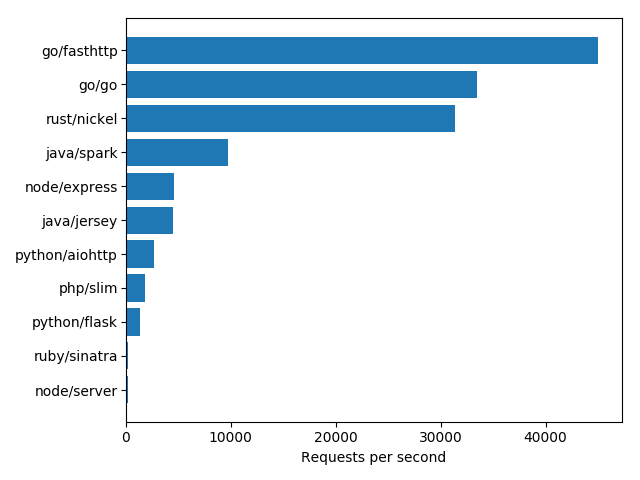
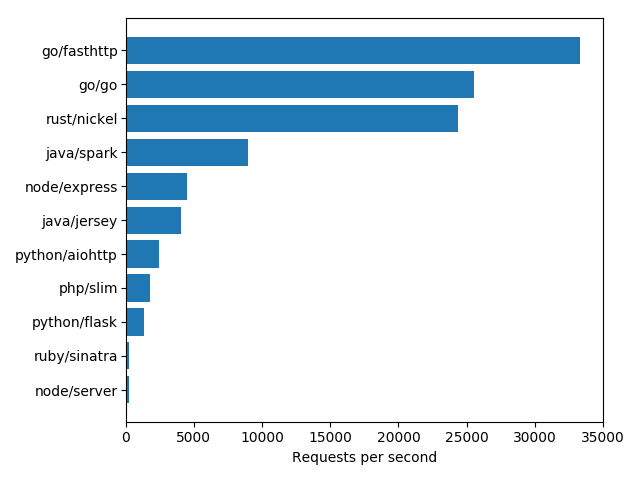
New results

diff --git a/RESULTS.md b/RESULTS.md
@@ -1,25 +1,28 @@
 # Host Info
 ```
-17 Nov 2017
+07 Apr 2018
 
-Linux 4.13.0-16-generic
+Linux 4.9.0-6-amd64
 
 Client:
- Version:      17.09.0-ce
- API version:  1.32
- Go version:   go1.8.3
- Git commit:   afdb6d4
- Built:        Tue Sep 26 22:42:45 2017
- OS/Arch:      linux/amd64
+ Version:	18.03.0-ce
+ API version:	1.37
+ Go version:	go1.9.4
+ Git commit:	0520e24
+ Built:	Wed Mar 21 23:10:06 2018
+ OS/Arch:	linux/amd64
+ Experimental:	false
+ Orchestrator:	swarm
 
 Server:
- Version:      17.09.0-ce
- API version:  1.32 (minimum version 1.12)
- Go version:   go1.8.3
- Git commit:   afdb6d4
- Built:        Tue Sep 26 22:41:24 2017
- OS/Arch:      linux/amd64
- Experimental: false
+ Engine:
+  Version:	18.03.0-ce
+  API version:	1.37 (minimum version 1.12)
+  Go version:	go1.9.4
+  Git commit:	0520e24
+  Built:	Wed Mar 21 23:08:35 2018
+  OS/Arch:	linux/amd64
+  Experimental:	false
 ```
 
 ---
@@ -29,7 +32,7 @@ Server:
 ## go/fasthttp
 
 ```
-go version go1.9.2 linux/amd64
+go version go1.10.1 linux/amd64
 ```
 
 ```
@@ -37,17 +40,17 @@ HappyTest-PASS, ErrorTest-PASS
 Running 11s test @ http://127.0.0.1:8888/api/echo/HelloWorld?num=1234567890
   1 threads and 11 connections
   Thread Stats   Avg      Stdev     Max   +/- Stdev
-    Latency   386.44us    1.00ms  26.40ms   96.49%
-    Req/Sec    45.22k     1.51k   49.37k    77.27%
-  494743 requests in 11.00s, 83.04MB read
-Requests/sec:  44975.43
-Transfer/sec:      7.55MB
+    Latency   401.90us  785.40us  21.98ms   96.88%
+    Req/Sec    33.49k     1.61k   37.08k    77.48%
+  369718 requests in 11.10s, 62.06MB read
+Requests/sec:  33308.67
+Transfer/sec:      5.59MB
 ```
 
 ## go/go
 
 ```
-go version go1.9.2 linux/amd64
+go version go1.10.1 linux/amd64
 ```
 
 ```
@@ -55,19 +58,19 @@ HappyTest-PASS, ErrorTest-PASS
 Running 11s test @ http://127.0.0.1:8888/api/echo/HelloWorld?num=1234567890
   1 threads and 11 connections
   Thread Stats   Avg      Stdev     Max   +/- Stdev
-    Latency   451.87us  816.39us  22.36ms   95.17%
-    Req/Sec    33.64k     1.52k   36.10k    72.73%
-  368154 requests in 11.00s, 55.47MB read
-Requests/sec:  33466.66
-Transfer/sec:      5.04MB
+    Latency   535.40us    0.89ms  22.50ms   95.63%
+    Req/Sec    25.65k     1.37k   28.05k    93.64%
+  280673 requests in 11.00s, 42.29MB read
+Requests/sec:  25513.16
+Transfer/sec:      3.84MB
 ```
 
 ## java/jersey
 
 ```
-openjdk version "1.8.0_151"
-OpenJDK Runtime Environment (build 1.8.0_151-8u151-b12-1~deb9u1-b12)
-OpenJDK 64-Bit Server VM (build 25.151-b12, mixed mode)
+openjdk version "1.8.0_162"
+OpenJDK Runtime Environment (build 1.8.0_162-8u162-b12-1~deb9u1-b12)
+OpenJDK 64-Bit Server VM (build 25.162-b12, mixed mode)
 ```
 
 ```
@@ -75,19 +78,19 @@ HappyTest-PASS, ErrorTest-PASS
 Running 11s test @ http://127.0.0.1:8888/api/echo/HelloWorld?num=1234567890
   1 threads and 11 connections
   Thread Stats   Avg      Stdev     Max   +/- Stdev
-    Latency     5.18ms    7.59ms  78.44ms   87.14%
-    Req/Sec     4.59k     3.00k   11.67k    64.55%
-  50217 requests in 11.00s, 5.85MB read
-Requests/sec:   4564.93
-Transfer/sec:    544.19KB
+    Latency     4.40ms    5.72ms  68.39ms   87.32%
+    Req/Sec     4.07k     2.53k   11.08k    70.91%
+  44588 requests in 11.00s, 5.19MB read
+Requests/sec:   4052.94
+Transfer/sec:    483.15KB
 ```
 
 ## java/spark
 
 ```
-openjdk version "1.8.0_151"
-OpenJDK Runtime Environment (build 1.8.0_151-8u151-b12-1~deb9u1-b12)
-OpenJDK 64-Bit Server VM (build 25.151-b12, mixed mode)
+openjdk version "1.8.0_162"
+OpenJDK Runtime Environment (build 1.8.0_162-8u162-b12-1~deb9u1-b12)
+OpenJDK 64-Bit Server VM (build 25.162-b12, mixed mode)
 ```
 
 ```
@@ -95,20 +98,20 @@ HappyTest-PASS, ErrorTest-PASS
 Running 11s test @ http://127.0.0.1:8888/api/echo/HelloWorld?num=1234567890
   1 threads and 11 connections
   Thread Stats   Avg      Stdev     Max   +/- Stdev
-    Latency     1.88ms    3.13ms  44.27ms   92.15%
-    Req/Sec     9.80k     3.24k   13.38k    75.68%
-  108194 requests in 11.10s, 21.57MB read
-Requests/sec:   9747.05
-Transfer/sec:      1.94MB
+    Latency     1.73ms    2.51ms  49.56ms   92.06%
+    Req/Sec     9.02k     3.28k   12.05k    73.64%
+  98755 requests in 11.00s, 19.68MB read
+Requests/sec:   8977.15
+Transfer/sec:      1.79MB
 ```
 
 ## node/express
 
 ```
-v9.2.0
+v9.11.1
 express@ /app
-+-- [40m[33mexpress@4.16.2[39m[49m 
-`-- [40m[33muuid@3.1.0[39m[49m 
++-- [40m[33mexpress@4.16.3[39m[49m 
+`-- [40m[33muuid@3.2.1[39m[49m 
 
 ```
 
@@ -117,21 +120,21 @@ HappyTest-PASS, ErrorTest-PASS
 Running 11s test @ http://127.0.0.1:8888/api/echo/HelloWorld?num=1234567890
   1 threads and 11 connections
   Thread Stats   Avg      Stdev     Max   +/- Stdev
-    Latency     2.40ms  722.13us  12.59ms   92.54%
-    Req/Sec     4.67k   622.05     5.38k    84.55%
-  51102 requests in 11.00s, 12.77MB read
-Requests/sec:   4645.23
-Transfer/sec:      1.16MB
+    Latency     2.47ms  737.59us  12.78ms   92.94%
+    Req/Sec     4.51k   578.25     5.01k    89.09%
+  49362 requests in 11.00s, 12.33MB read
+Requests/sec:   4487.32
+Transfer/sec:      1.12MB
 ```
 
 ## node/server
 
 ```
-v9.2.0
+v9.11.1
 server@ /app
-+-- server@1.0.5
-| `-- [40m[33mexpress@4.16.2[39m[49m 
-`-- [40m[33muuid@3.1.0[39m[49m 
++-- server@1.0.18
+| `-- [40m[33mexpress@4.16.3[39m[49m 
+`-- [40m[33muuid@3.2.1[39m[49m 
 
 ```
 
@@ -140,20 +143,20 @@ HappyTest-PASS, ErrorTest-PASS
 Running 11s test @ http://127.0.0.1:8888/api/echo/HelloWorld?num=1234567890
   1 threads and 11 connections
   Thread Stats   Avg      Stdev     Max   +/- Stdev
-    Latency    45.58ms    3.40ms  68.08ms   91.39%
-    Req/Sec   241.49     14.94   272.00     68.18%
-  2647 requests in 11.01s, 1.53MB read
-Requests/sec:    240.50
-Transfer/sec:    142.59KB
+    Latency    44.57ms    2.77ms  68.16ms   86.94%
+    Req/Sec   247.24     17.30   300.00     77.27%
+  2710 requests in 11.01s, 1.57MB read
+Requests/sec:    246.23
+Transfer/sec:    146.01KB
 ```
 
 ## php/slim
 
 ```
-PHP 7.1.11 (cli) (built: Nov  4 2017 10:39:58) ( NTS )
+PHP 7.1.12 (cli) (built: Dec  1 2017 19:26:10) ( NTS )
 Copyright (c) 1997-2017 The PHP Group
 Zend Engine v3.1.0, Copyright (c) 1998-2017 Zend Technologies
-    with Zend OPcache v7.1.11, Copyright (c) 1999-2017, by Zend Technologies
+    with Zend OPcache v7.1.12, Copyright (c) 1999-2017, by Zend Technologies
 ```
 
 ```
@@ -161,28 +164,31 @@ HappyTest-PASS, ErrorTest-PASS
 Running 11s test @ http://127.0.0.1:8888/api/echo/HelloWorld?num=1234567890
   1 threads and 11 connections
   Thread Stats   Avg      Stdev     Max   +/- Stdev
-    Latency     5.80ms  796.61us  16.04ms   77.85%
-    Req/Sec     1.90k    55.18     1.98k    67.27%
-  20840 requests in 11.00s, 5.09MB read
-Requests/sec:   1894.46
-Transfer/sec:    473.53KB
+    Latency     6.00ms    0.87ms  16.41ms   77.65%
+    Req/Sec     1.84k    75.74     1.94k    83.64%
+  20124 requests in 11.00s, 4.91MB read
+Requests/sec:   1828.91
+Transfer/sec:    457.14KB
 ```
 
 ## python/aiohttp
 
 ```
-Python 3.6.3
+Python 3.6.5
 Package       Version
 ------------- -------
-aiohttp       2.3.3  
-async-timeout 2.0.0  
+aiohttp       3.1.2  
+async-timeout 2.0.1  
+attrs         17.4.0 
 cchardet      2.1.1  
 chardet       3.0.4  
-multidict     3.3.2  
-pip           9.0.1  
-setuptools    36.6.0 
+idna          2.6    
+idna-ssl      1.0.1  
+multidict     4.1.0  
+pip           9.0.3  
+setuptools    39.0.1 
 wheel         0.30.0 
-yarl          0.14.2 
+yarl          1.1.1  
 ```
 
 ```
@@ -190,17 +196,17 @@ HappyTest-PASS, ErrorTest-PASS
 Running 11s test @ http://127.0.0.1:8888/api/echo/HelloWorld?num=1234567890
   1 threads and 11 connections
   Thread Stats   Avg      Stdev     Max   +/- Stdev
-    Latency     4.10ms  184.57us   9.18ms   79.97%
-    Req/Sec     2.69k    87.06     2.84k    70.00%
-  29475 requests in 11.00s, 5.43MB read
-Requests/sec:   2679.22
-Transfer/sec:    504.97KB
+    Latency     4.49ms  255.34us  13.64ms   90.03%
+    Req/Sec     2.46k   106.20     2.63k    78.18%
+  26904 requests in 11.00s, 4.95MB read
+Requests/sec:   2445.74
+Transfer/sec:    460.98KB
 ```
 
 ## python/flask
 
 ```
-Python 3.6.3
+Python 3.6.5
 Package      Version
 ------------ -------
 click        6.7    
@@ -208,9 +214,9 @@ Flask        0.12.2
 itsdangerous 0.24   
 Jinja2       2.10   
 MarkupSafe   1.0    
-pip          9.0.1  
-setuptools   36.6.0 
-Werkzeug     0.12.2 
+pip          9.0.3  
+setuptools   39.0.1 
+Werkzeug     0.14.1 
 wheel        0.30.0 
 ```
 
@@ -219,22 +225,22 @@ HappyTest-PASS, ErrorTest-PASS
 Running 11s test @ http://127.0.0.1:8888/api/echo/HelloWorld?num=1234567890
   1 threads and 11 connections
   Thread Stats   Avg      Stdev     Max   +/- Stdev
-    Latency     7.53ms    1.71ms  30.34ms   94.49%
-    Req/Sec     1.37k   330.04     1.57k    85.45%
-  15002 requests in 11.03s, 2.82MB read
-Requests/sec:   1359.93
-Transfer/sec:    261.63KB
+    Latency     7.70ms    1.86ms  27.32ms   95.18%
+    Req/Sec     1.35k   328.40     1.51k    88.18%
+  14806 requests in 11.04s, 2.78MB read
+Requests/sec:   1341.46
+Transfer/sec:    258.07KB
 ```
 
 ## ruby/sinatra
 
 ```
-ruby 2.4.2p198 (2017-09-14 revision 59899) [x86_64-linux-musl]
+ruby 2.5.1p57 (2018-03-29 revision 63029) [x86_64-linux-musl]
 
 *** LOCAL GEMS ***
 
-sinatra (2.0.0)
-sinatra-contrib (2.0.0)
+sinatra (2.0.1)
+sinatra-contrib (2.0.1)
 ```
 
 ```
@@ -242,17 +248,17 @@ HappyTest-PASS, ErrorTest-PASS
 Running 11s test @ http://127.0.0.1:8888/api/echo/HelloWorld?num=1234567890
   1 threads and 11 connections
   Thread Stats   Avg      Stdev     Max   +/- Stdev
-    Latency    45.43ms    3.35ms  64.86ms   93.00%
-    Req/Sec   242.55     10.32   260.00     76.36%
-  2658 requests in 11.02s, 684.75KB read
-Requests/sec:    241.12
-Transfer/sec:     62.12KB
+    Latency    43.98ms    2.16ms  60.86ms   97.20%
+    Req/Sec   250.50     20.82   300.00     70.00%
+  2749 requests in 11.05s, 708.33KB read
+Requests/sec:    248.84
+Transfer/sec:     64.12KB
 ```
 
 ## rust/nickel
 
 ```
-rustc 1.21.0 (3b72af97e 2017-10-09)
+rustc 1.25.0 (84203cac6 2018-03-25)
 ```
 
 ```
@@ -260,9 +266,9 @@ HappyTest-PASS, ErrorTest-PASS
 Running 11s test @ http://127.0.0.1:8888/api/echo/HelloWorld?num=1234567890
   1 threads and 11 connections
   Thread Stats   Avg      Stdev     Max   +/- Stdev
-    Latency   149.67us   74.44us   2.90ms   78.15%
-    Req/Sec    31.57k   643.76    34.24k    74.55%
-  345447 requests in 11.02s, 63.25MB read
-Requests/sec:  31341.59
-Transfer/sec:      5.74MB
+    Latency   181.16us   98.12us   5.74ms   80.18%
+    Req/Sec    24.50k   407.03    25.76k    73.64%
+  268128 requests in 11.00s, 49.10MB read
+Requests/sec:  24374.02
+Transfer/sec:      4.46MB
 ```
